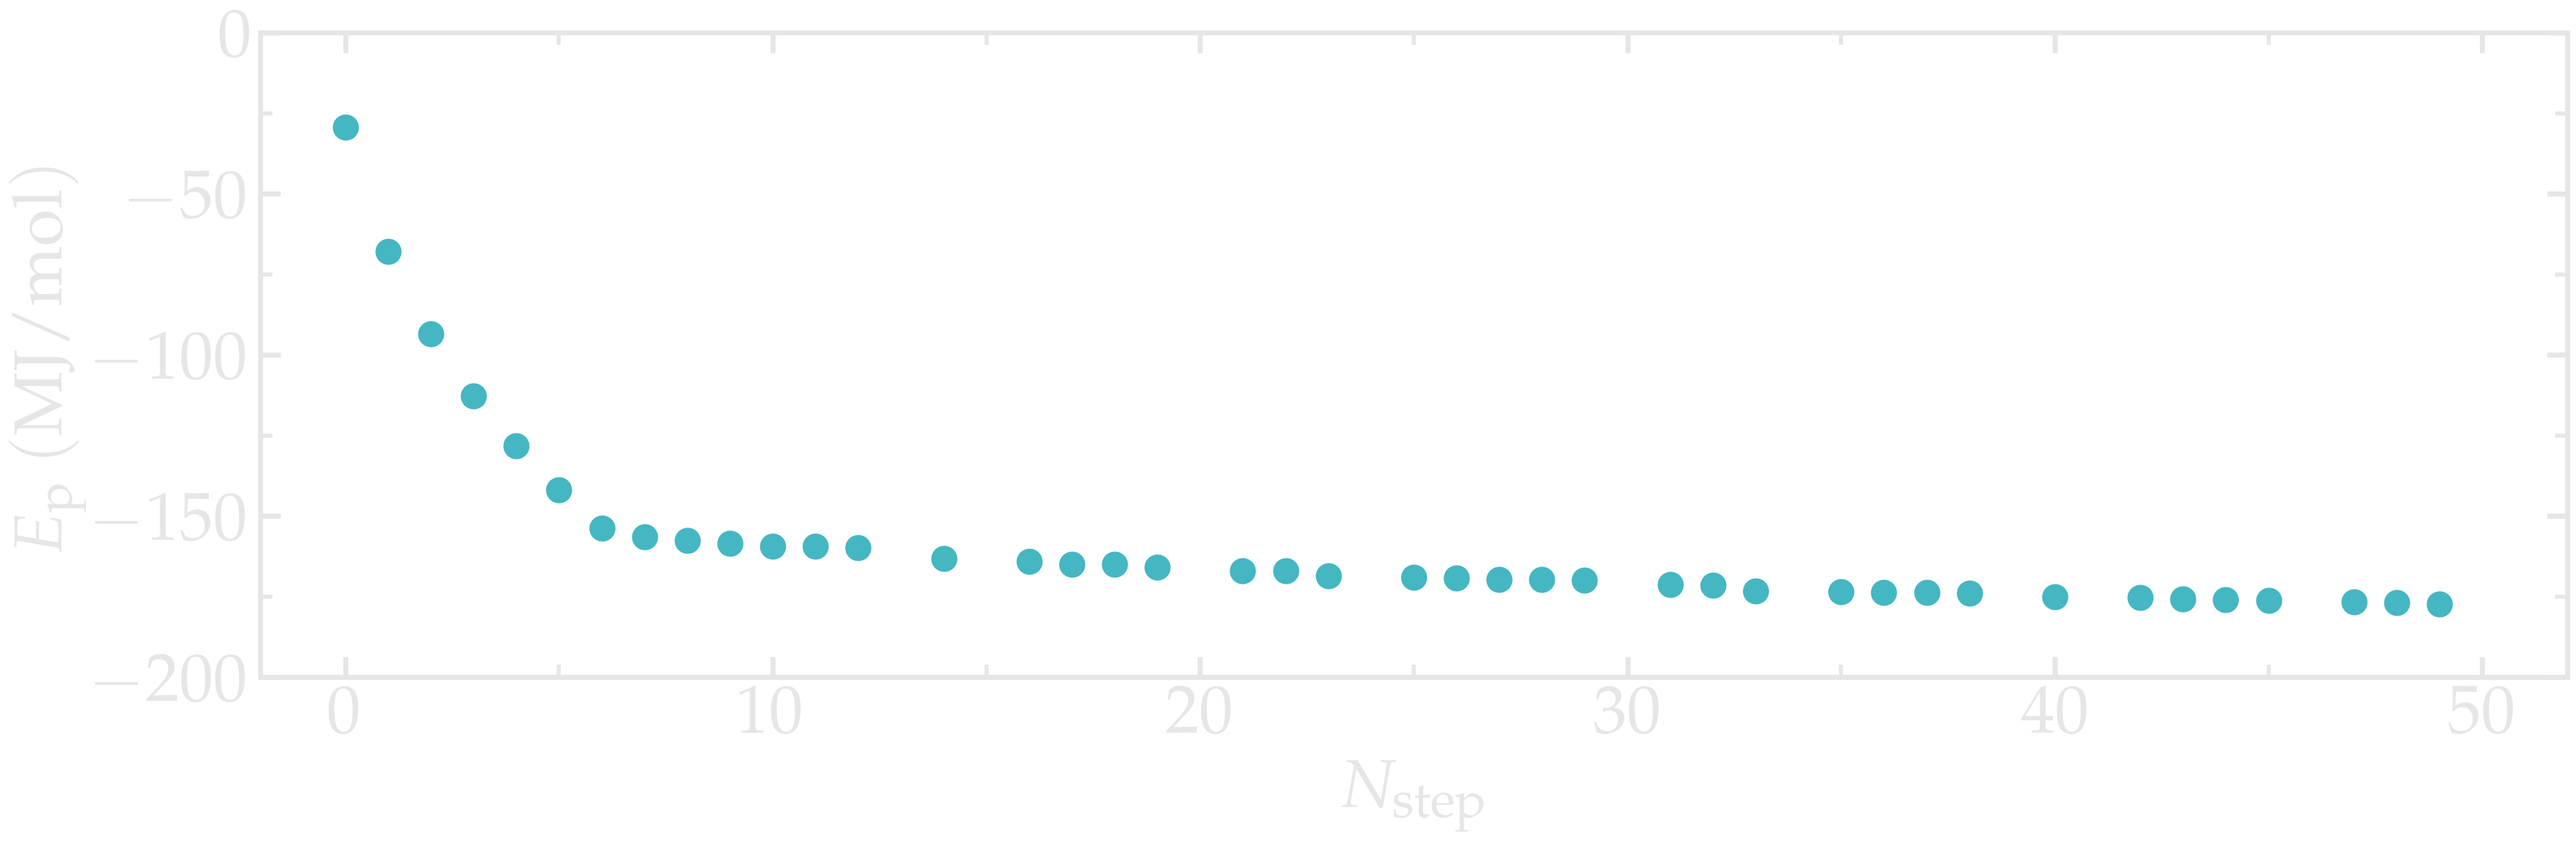
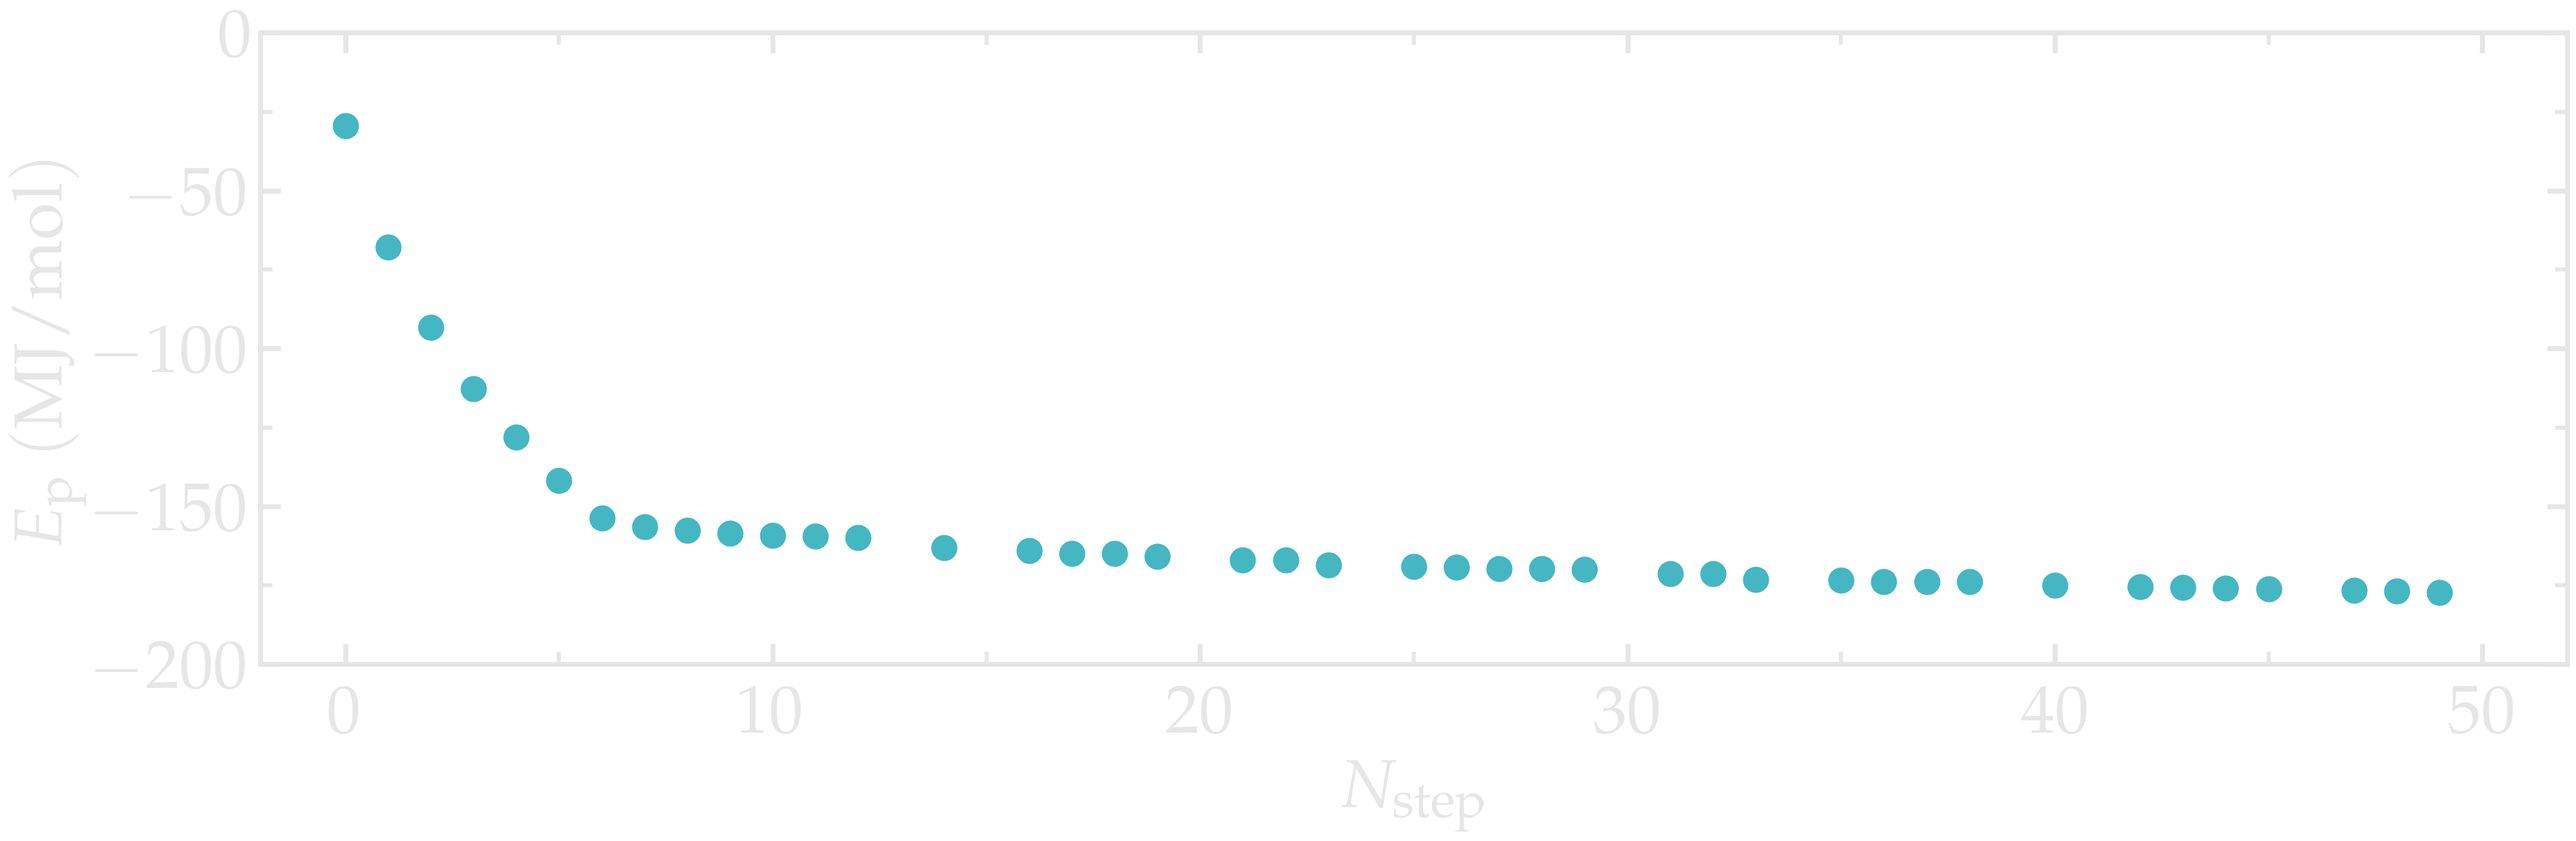
added npt figure

diff --git a/docs/sphinx/source/tutorials/level1/protein-in-electrolyte.rst b/docs/sphinx/source/tutorials/level1/protein-in-electrolyte.rst
@@ -462,4 +462,18 @@ Run the molecular dynamics
     gmx energy -f npt.edr -o volume-npt.xvg
     gmx energy -f npt.edr -o density-npt.xvg
 
+.. figure:: ../figures/level1/protein-in-electrolyte/potential-energy-npt-light.png
+    :alt: potential energy extracted using Gromacs
+    :class: only-light
+
+.. figure:: ../figures/level1/protein-in-electrolyte/potential-energy-npt-dark.png
+    :alt: potential energy extracted using Gromacs
+    :class: only-dark
+
+.. container:: figurelegend
+
+    Box volume :math:`V` (a) and
+    density :math:`\rho` (b) as a function of the
+    time :math:`t` during the NPT molecular dynamics.
+
 .. include:: ../../non-tutorials/accessfile.rst
